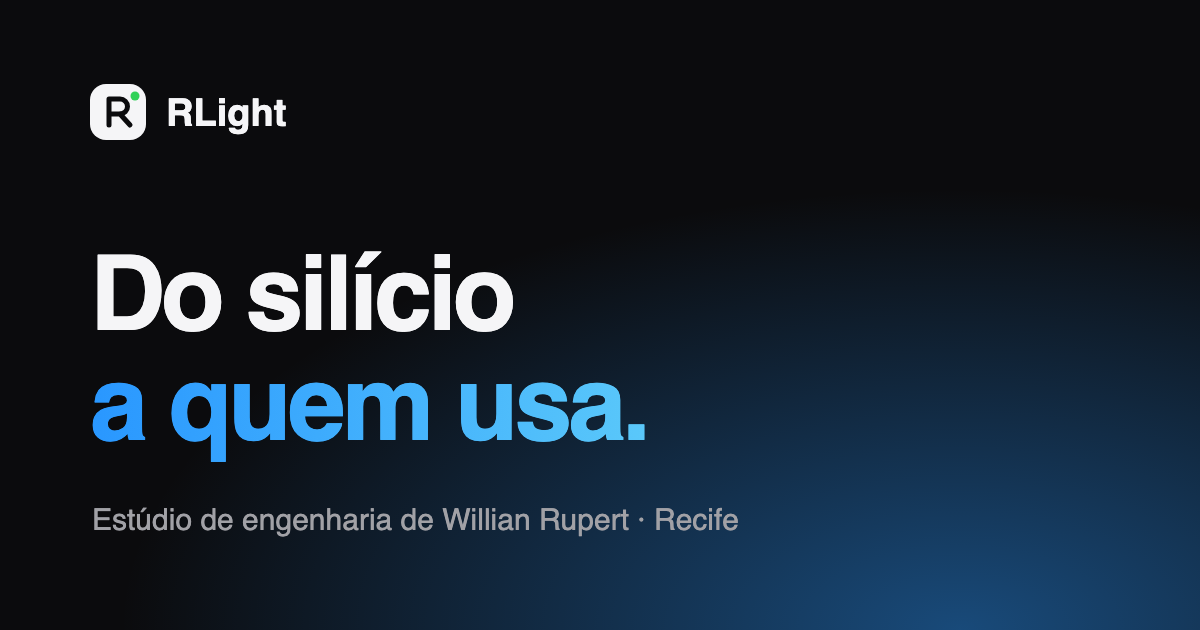
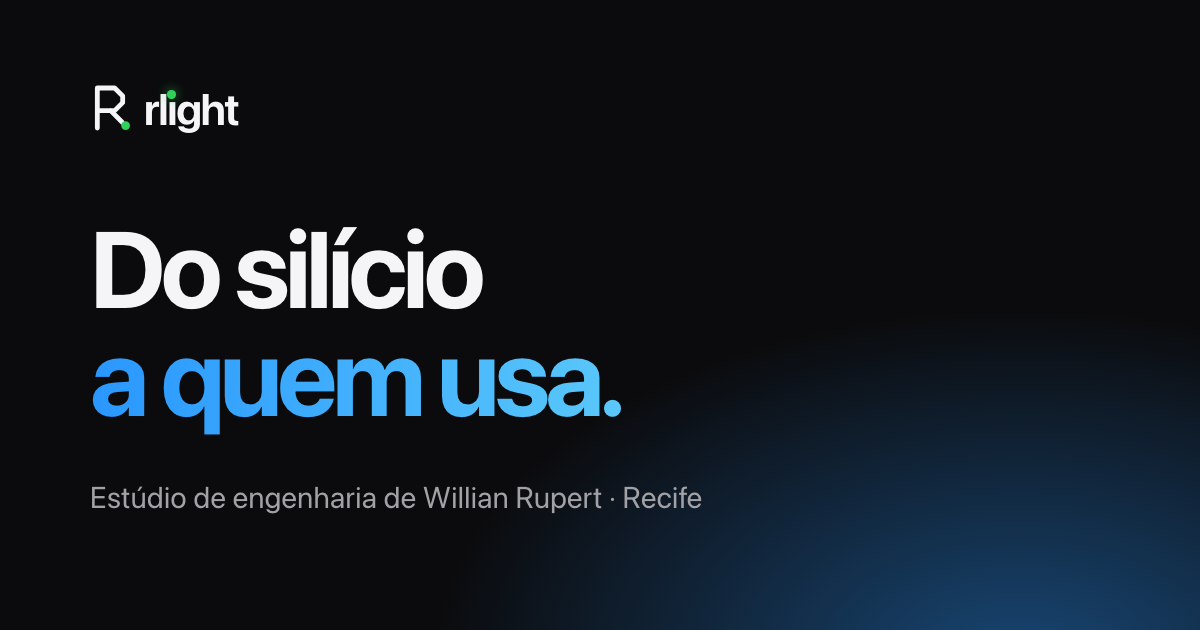
Marca nova: o Traço e o nome com o pingo aceso
Ícone do R como trilha de placa terminando num pad aceso; o nome em
minúsculas com o pingo do i como LED. Aplicado no cabeçalho, no rodapé,
no favicon, no ícone do iPhone e na imagem de compartilhamento.

diff --git a/estilo.css b/estilo.css
@@ -91,12 +91,20 @@ button { font: inherit; color: inherit; }
   padding: 0 var(--margem-d) 0 var(--margem);
   display: flex; align-items: center; gap: 28px;
 }
-.marca { display: flex; align-items: center; gap: 10px; color: var(--texto); font-weight: 650; font-size: 18px; letter-spacing: -0.02em; }
+.marca { display: flex; align-items: center; gap: 4px; color: var(--texto); font-weight: 650; font-size: 18px; letter-spacing: -0.02em; }
 .marca:hover { text-decoration: none; }
-.marca svg { width: 28px; height: 28px; }
-.marca-chip { fill: var(--texto); }
-.marca-r { fill: none; stroke: var(--fundo); stroke-width: 2.6; stroke-linecap: round; stroke-linejoin: round; }
-.marca-led { fill: var(--verde); }
+.marca svg { width: 32px; height: 32px; margin: 0 -4px 0 -5px; }
+.marca-traco { fill: none; stroke: var(--texto); stroke-width: 3.6; stroke-linecap: round; stroke-linejoin: round; }
+.marca-pad { fill: var(--verde); transition: filter .3s; }
+.marca:hover .marca-pad { filter: drop-shadow(0 0 4px var(--verde)); }
+/* O nome: minúsculas, e o pingo do i é um LED aceso. */
+.nome { font: 650 22px/1 var(--display); letter-spacing: -0.04em; }
+.nome .i { position: relative; }
+.nome .i i { position: absolute; left: 50%; top: .19em; width: .19em; height: .19em; margin-left: -.095em; border-radius: 50%; background: var(--verde); box-shadow: 0 0 .25em color-mix(in srgb, var(--verde) 70%, transparent); animation: respira 4s ease-in-out infinite; }
+@keyframes respira { 0%, 100% { opacity: .82 } 50% { opacity: 1 } }
+.rodape-marca { display: inline-flex; align-items: center; justify-content: center; gap: 6px; color: var(--texto); margin-bottom: 6px; }
+.rodape-marca svg { width: 26px; height: 26px; }
+.rodape-marca .nome { font-size: 19px; }
 .menu { display: flex; gap: 24px; list-style: none; margin: 0 0 0 auto; padding: 0; }
 .menu a { color: var(--suave); font-size: 14px; font-weight: 500; }
 .menu a:hover { color: var(--texto); text-decoration: none; }

diff --git a/index.html b/index.html
@@ -14,6 +14,7 @@
 <meta property="og:url" content="https://rlight.com.br/">
 <meta property="og:image" content="https://rlight.com.br/assets/og.png">
 <link rel="icon" href="assets/marca.svg" type="image/svg+xml">
+<link rel="icon" href="assets/marca/app-512.png" type="image/png" sizes="512x512">
 <link rel="apple-touch-icon" href="assets/apple-touch-icon.png">
 <link rel="stylesheet" href="estilo.css">
 <script>document.documentElement.classList.add('js')</script>
@@ -26,8 +27,8 @@
 <header class="barra">
   <nav class="barra-dentro" aria-label="Principal">
     <a class="marca" href="#topo" aria-label="RLight, início">
-      <svg viewBox="0 0 32 32" aria-hidden="true"><rect x="3" y="3" width="26" height="26" rx="8" class="marca-chip"/><path d="M11 22V10h5.5a3.5 3.5 0 0 1 0 7H11m5 0 5 5" class="marca-r"/><circle cx="24" cy="8" r="2.2" class="marca-led"/></svg>
-      <span>RLight</span>
+      <svg viewBox="0 0 48 48" aria-hidden="true"><path class="marca-traco" d="M13 39V9h13l6 6v5l-6 6H13M23 26l8.5 8.5"/><circle class="marca-pad" cx="34.2" cy="37.2" r="3.3"/></svg>
+      <span class="nome" aria-hidden="true">rl<span class="i">ı<i></i></span>ght</span>
     </a>
     <ul class="menu">
       <li><a href="#sistemas">Sistemas</a></li>
@@ -378,7 +379,8 @@
 </main>
 
 <footer class="rodape">
-  <p>RLight · estúdio de engenharia de Willian Rupert · Recife</p>
+  <p class="rodape-marca" aria-label="RLight"><svg viewBox="0 0 48 48" aria-hidden="true"><path class="marca-traco" d="M13 39V9h13l6 6v5l-6 6H13M23 26l8.5 8.5"/><circle class="marca-pad" cx="34.2" cy="37.2" r="3.3"/></svg><span class="nome" aria-hidden="true">rl<span class="i">ı<i></i></span>ght</span></p>
+  <p>Estúdio de engenharia de Willian Rupert · Recife</p>
   <p class="assinatura">o simples é belo.</p>
 </footer>
 

diff --git a/assets/og-fonte.html b/assets/og-fonte.html
@@ -1,0 +1,22 @@
+<!doctype html>
+<!-- Fonte da imagem de compartilhamento (1200 × 630). Gerada com o Chrome headless, ver README. -->
+<meta charset="utf-8">
+<link rel="stylesheet" href="../estilo.css">
+<style>
+  :root { --fundo:#0b0b0d; --texto:#f5f5f7; --suave:#a1a1a6; --azul:#2997ff; --azul-2:#5ac8fa; --verde:#30d158; }
+  html, body { margin: 0; width: 1200px; height: 630px; overflow: hidden; background: #0b0b0d; }
+  .og { position: relative; width: 1200px; height: 630px; padding: 76px 90px; box-sizing: border-box;
+        background: radial-gradient(70% 80% at 85% 105%, rgb(41 151 255 / .42), transparent 70%); }
+  .og .marca { display: flex; align-items: center; gap: 8px; color: var(--texto); }
+  .og .marca svg { width: 64px; height: 64px; margin: 0 -8px 0 -10px; }
+  .og .marca-traco { stroke-width: 3.6; }
+  .og .nome { font-size: 44px; }
+  .og .nome .i i { animation: none; opacity: 1; }
+  .og h1 { margin: 74px 0 0; font: 700 108px/1 var(--display); letter-spacing: -0.045em; color: var(--texto); }
+  .og p { margin-top: 44px; font-size: 30px; color: var(--suave); }
+</style>
+<div class="og">
+  <div class="marca"><svg viewBox="0 0 48 48"><path class="marca-traco" d="M13 39V9h13l6 6v5l-6 6H13M23 26l8.5 8.5"/><circle class="marca-pad" cx="34.2" cy="37.2" r="3.3"/></svg><span class="nome">rl<span class="i">ı<i></i></span>ght</span></div>
+  <h1>Do silício<br><span class="gradiente">a quem usa.</span></h1>
+  <p>Estúdio de engenharia de Willian Rupert · Recife</p>
+</div>

diff --git a/README.md b/README.md
@@ -12,5 +12,12 @@ Para ver localmente:
 python3 -m http.server 8766
 ```
 
-`assets/og.png` é gerado a partir de `assets/og-fonte.svg` com o Chrome headless
-(1200 × 630).
+`assets/og.png` é gerado a partir de `assets/og-fonte.html` com o Chrome headless,
+com o servidor local no ar:
+
+```bash
+"/Applications/Google Chrome.app/Contents/MacOS/Google Chrome" --headless=new --window-size=1200,630 --screenshot=assets/og.png http://localhost:8766/assets/og-fonte.html
+```
+
+A marca mora em `assets/marca/`: `icone.svg` (o Traço), `app.svg` (ícone de app)
+e `app-quadrado.svg` (base do `apple-touch-icon.png`, sem cantos, que o iOS arredonda).
